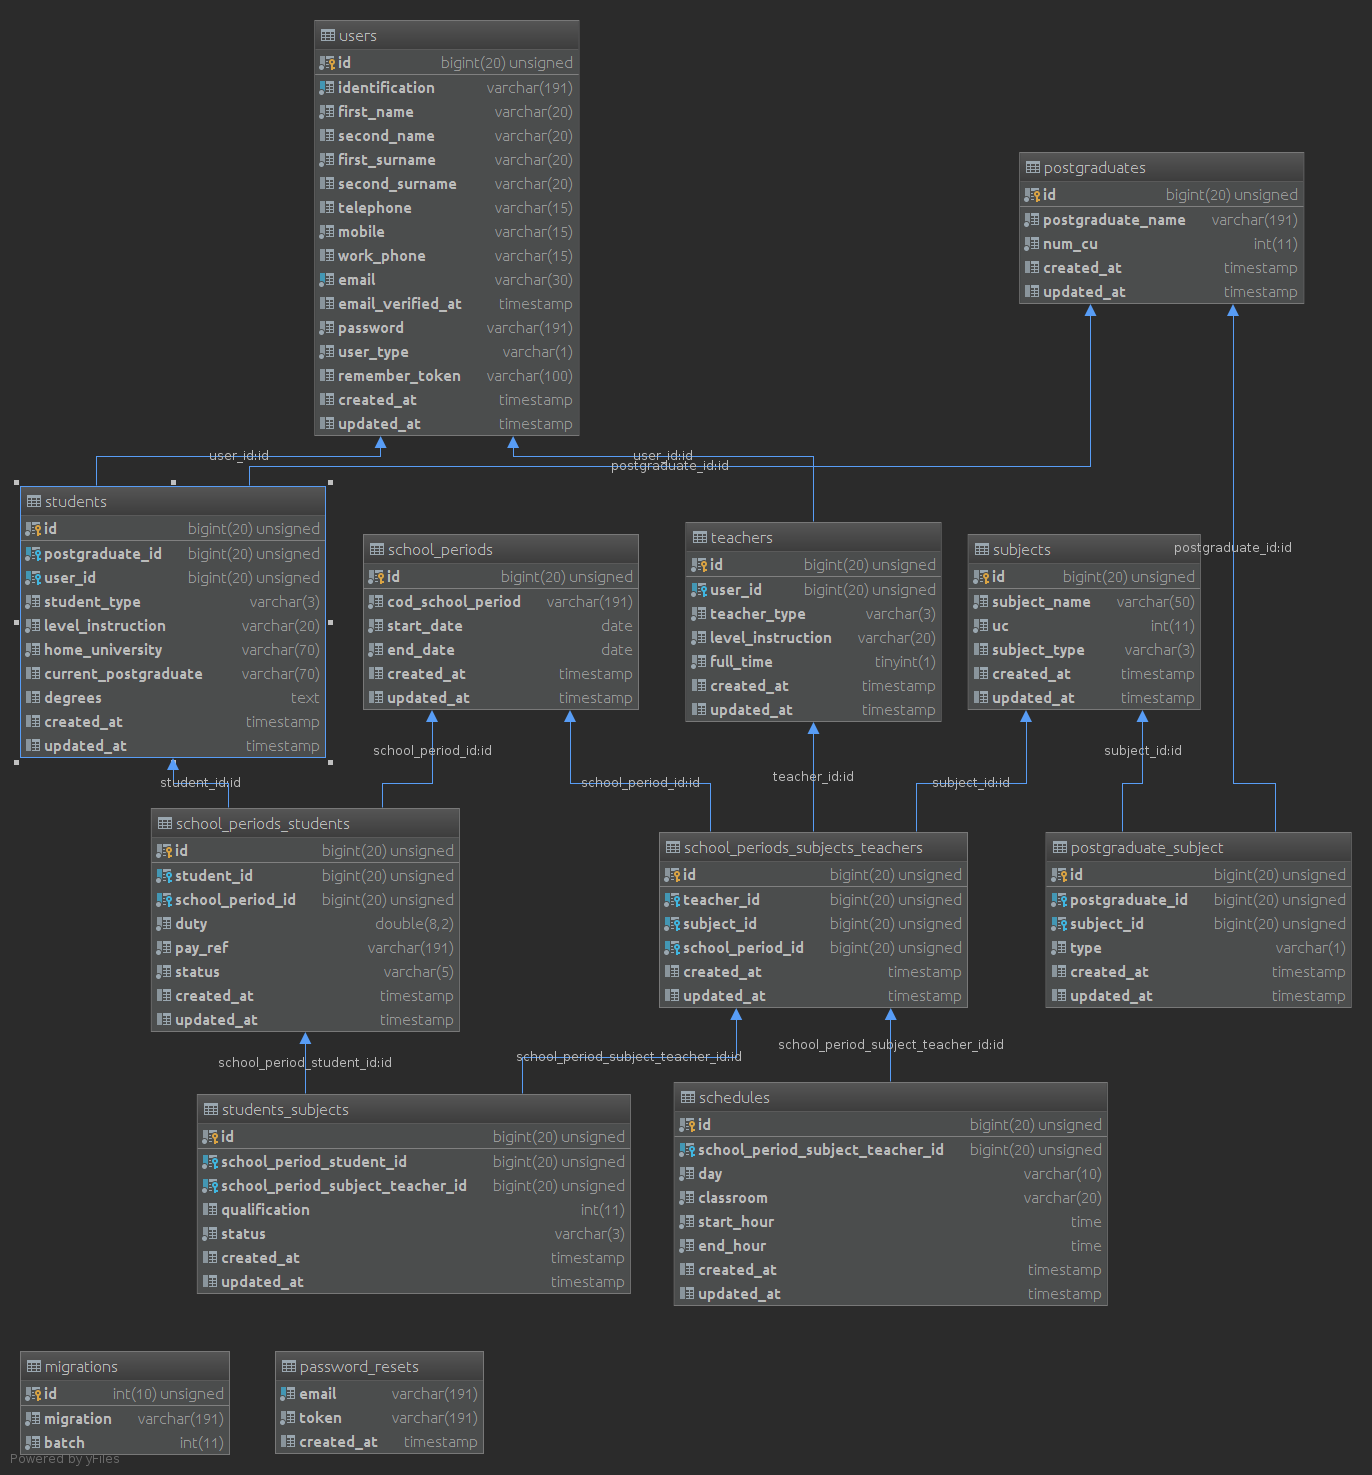
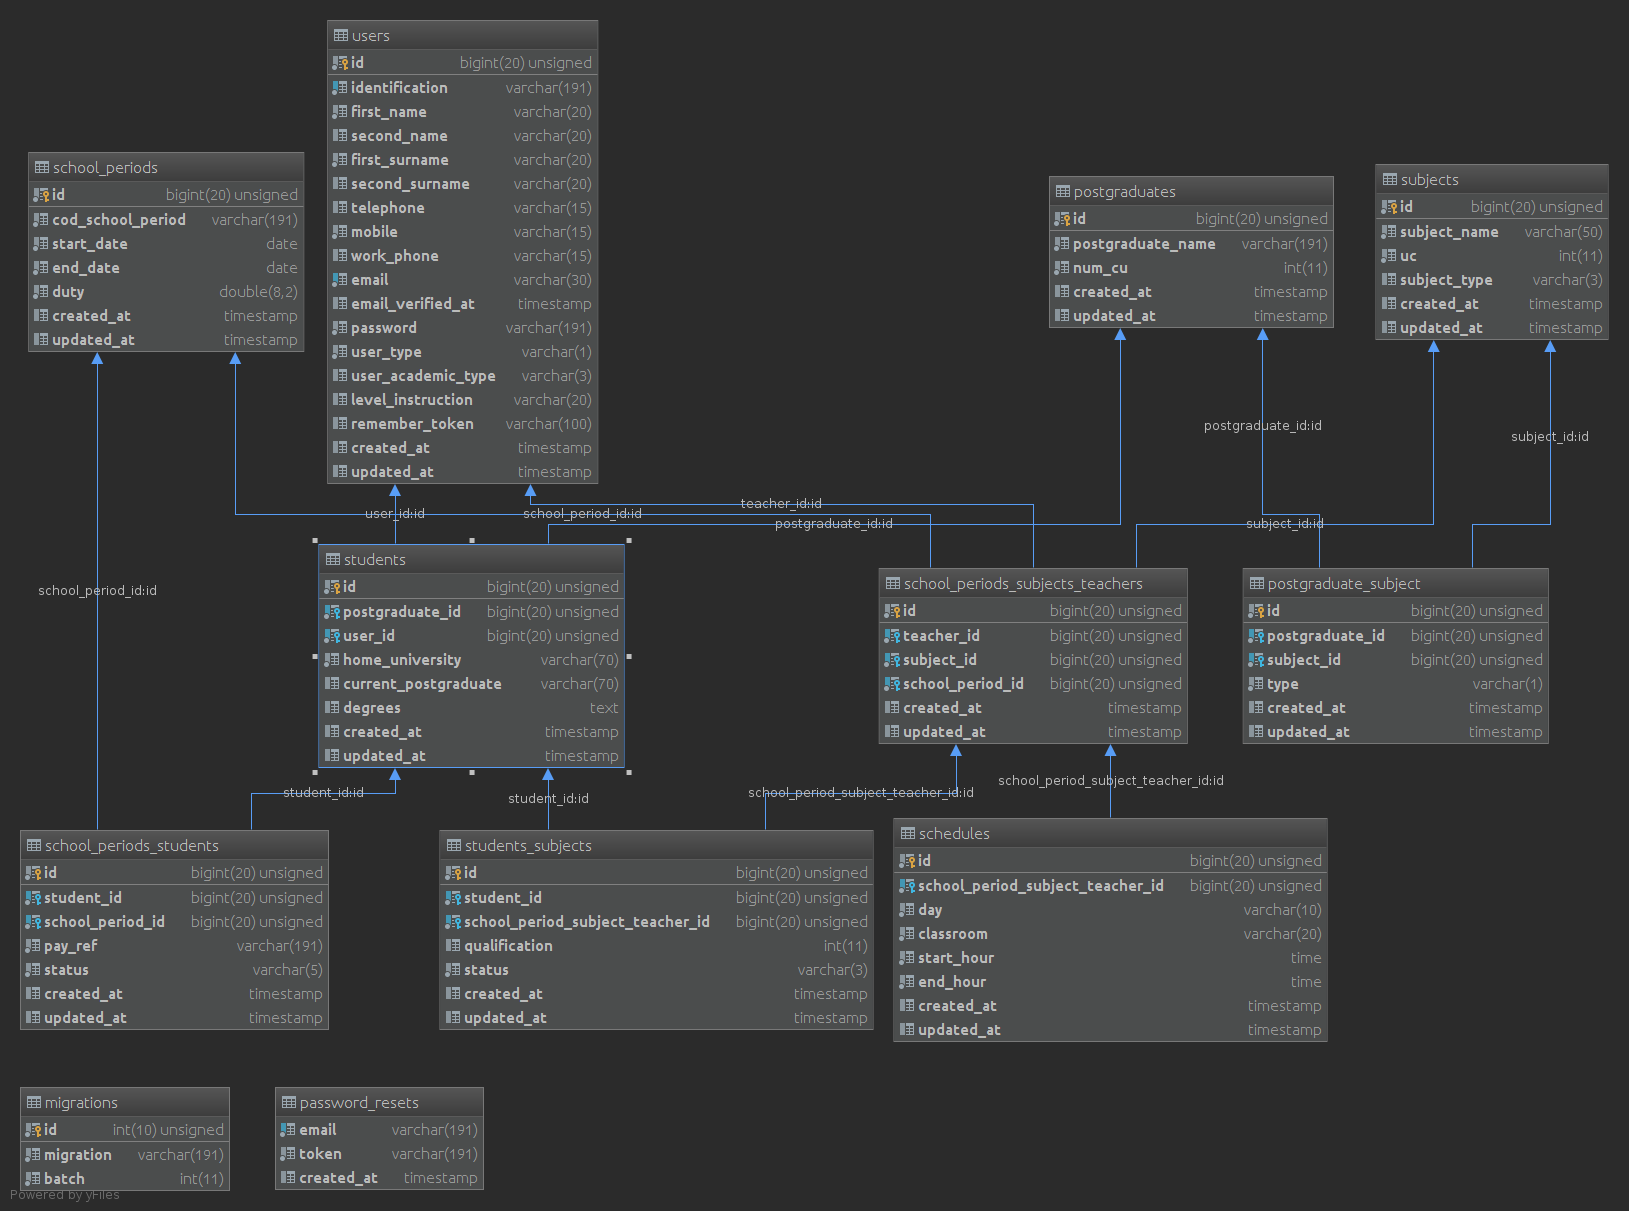
vuelta de teacher y postgradosa;adidos dos campos requeridos facultad y escuela

diff --git a/app/Http/Controllers/PostgraduateController.php b/app/Http/Controllers/PostgraduateController.php
@@ -36,8 +36,15 @@ class PostgraduateController extends Controller
      */
     public function store(Request $request)
     {
-        Postgraduate::create($request->all());
-        return response()->json(['message'=>'OK']);
+        $postgraduate = Postgraduate::where(['postgraduate_name'=>$request['postgraduate_name']])->get();
+        if (count($postgraduate)>0){
+            return response()->json(['message'=>'Postgrado ya registrado'],206);
+        }else{
+            Postgraduate::create($request->all());
+            $postgraduate = Postgraduate::where(['postgraduate_name'=>$request['postgraduate_name']])->get()[0];
+            return $postgraduate;
+        }
+
     }
 
     /**
@@ -49,7 +56,12 @@ class PostgraduateController extends Controller
     public function show($id)
     {
         $postgraduate = Postgraduate::find($id);
-        return $postgraduate;
+        if (count([$postgraduate])>0){
+            return $postgraduate;
+        } else{
+            return response()->json(['message'=>'Postgrado no encontrado'],206);
+        }
+
     }
 
     /**
@@ -72,9 +84,25 @@ class PostgraduateController extends Controller
      */
     public function update(Request $request, $id)
     {
-        //
-        Postgraduate::find($id)->update($request->all());
-        return response()->json(['message'=>'OK']);
+        $postgraduate = Postgraduate::find($id);
+        if (count([$postgraduate])>0){
+            $postgraduateName = Postgraduate::where(['postgraduate_name'=>$request['postgraduate_name']])->get();
+            if (count($postgraduateName)>0){
+                if ($postgraduateName[0][id]==$id){
+                    $postgraduate->update($request->all());
+                    $postgraduate = Postgraduate::find($id);
+                    return $postgraduate;
+                }else{
+                    return response()->json(['message'=>'nombre de Postgrado en uso'],206);
+                }
+            }else{
+                $postgraduate->update($request->all());
+                $postgraduate = Postgraduate::find($id);
+                return $postgraduate;
+            }
+        }else{
+            return response()->json(['message'=>'Postgrado no encontrado'],206);
+        }
     }
 
     /**
@@ -86,7 +114,12 @@ class PostgraduateController extends Controller
     public function destroy($id)
     {
         //
-        Postgraduate::find($id)->delete();
-        return response()->json(['message'=>'OK']);
+        $postgraduate = Postgraduate::find($id);
+        if (count([$postgraduate])>0){
+            $postgraduate->delete();
+            return response()->json(['message'=>'OK']);
+        }else{
+            return response()->json(['message'=>'Postgrado no encontrado'],206);
+        }
     }
 }

diff --git a/database/migrations/2019_09_07_204541_create_students_subjects_table.php b/database/migrations/2019_09_07_204541_create_students_subjects_table.php
@@ -15,12 +15,12 @@ class CreateStudentsSubjectsTable extends Migration
     {
         Schema::create('students_subjects', function (Blueprint $table) {
             $table->bigIncrements('id');
-            $table->unsignedBigInteger('school_period_student_id');
+            $table->unsignedBigInteger('student_id');
             $table->unsignedBigInteger('school_period_subject_teacher_id');
             $table->integer('qualification')->nullable();
             $table->string('status',3);
             $table->timestamps();
-            $table->foreign('school_period_student_id')->references('id')->on('school_periods_students')->onDelete('cascade');
+            $table->foreign('student_id')->references('id')->on('students')->onDelete('cascade');
             $table->foreign('school_period_subject_teacher_id')->references('id')->on('school_periods_subjects_teachers')->onDelete('cascade');
         });
     }

diff --git a/database/seeds/DatabaseSeeder.php b/database/seeds/DatabaseSeeder.php
@@ -15,7 +15,7 @@ class DatabaseSeeder extends Seeder
          Schema::disableForeignKeyConstraints();
          $this->call(UsersTableSeeder::class);
          //$this->call(AdministratorsTableSeeder::class);
-         $this->call(TeachersTableSeeder::class);
+         //$this->call(TeachersTableSeeder::class);
          $this->call(PostgraduatesTableSeeder::class);
          $this->call(StudentsTableSeeder::class);
         // $this->call(DegreesTableSeeder::class);

diff --git a/database/migrations/2019_08_04_201314_create_postgraduates_table.php b/database/migrations/2019_08_04_201314_create_postgraduates_table.php
@@ -15,8 +15,10 @@ class CreatePostgraduatesTable extends Migration
     {
         Schema::create('postgraduates', function (Blueprint $table) {
             $table->bigIncrements('id');
-            $table->string('postgraduate_name');
+            $table->string('postgraduate_name')->unique();
             $table->integer('num_cu');
+            $table->string('faculty');
+            $table->string('school');
             $table->timestamps();
         });
     }

diff --git a/database/migrations/2019_08_06_185718_create_students_table.php b/database/migrations/2019_08_06_185718_create_students_table.php
@@ -18,7 +18,6 @@ class CreateStudentsTable extends Migration
             $table->unsignedBigInteger('postgraduate_id');
             $table->unsignedBigInteger('user_id');
             $table->string('student_type',3);
-            $table->string('level_instruction',20);
             $table->string('home_university',70);
             $table->string('current_postgraduate',70)->nullable();
             $table->text('degrees')->nullable();

diff --git a/database/migrations/2019_08_07_205910_create_school_periods_students_table.php b/database/migrations/2019_08_07_205910_create_school_periods_students_table.php
@@ -17,7 +17,6 @@ class CreateSchoolPeriodsStudentsTable extends Migration
             $table->bigIncrements('id');
             $table->unsignedBigInteger('student_id');
             $table->unsignedBigInteger('school_period_id');
-            $table->float('duty');
             $table->string('pay_ref');
             $table->string('status',5);
             $table->timestamps();

diff --git a/app/Postgraduate.php b/app/Postgraduate.php
@@ -7,7 +7,7 @@ use Illuminate\Database\Eloquent\Model;
 class Postgraduate extends Model
 {
     //
-    protected $fillable = ['postgraduate_name','num_cu'];
+    protected $fillable = ['postgraduate_name','num_cu','faculty','school'];
 
     public function  subjects(){
         return $this->belongsToMany('App\Subject','postgraduate_subject')->withPivot('subject_id','type');

diff --git a/database/migrations/2014_10_12_000000_create_users_table.php b/database/migrations/2014_10_12_000000_create_users_table.php
@@ -27,6 +27,7 @@ class CreateUsersTable extends Migration
             $table->timestamp('email_verified_at')->nullable();
             $table->string('password');
             $table->string('user_type',1);
+            $table->string('level_instruction',20)->nullable();
             $table->rememberToken();
             $table->timestamps();
         });

diff --git a/database/seeds/StudentsSubjectsTableSeeder.php b/database/seeds/StudentsSubjectsTableSeeder.php
@@ -14,7 +14,7 @@ class StudentsSubjectsTableSeeder extends Seeder
     {
         StudentSubject::query()->truncate();
         StudentSubject::create([
-            'school_period_student_id'=>1,
+            'student_id'=>1,
             'school_period_subject_teacher_id'=>1,
             'qualification'=>0,
             'status'=>'CUR' //CUR RET APR REP

diff --git a/database/seeds/SchoolPeriodsStudentsTableSeeder.php b/database/seeds/SchoolPeriodsStudentsTableSeeder.php
@@ -16,7 +16,6 @@ class SchoolPeriodsStudentsTableSeeder extends Seeder
         SchoolPeriodStudent::create([
             'student_id'=>1,
             'school_period_id'=>1,
-            'duty'=>10,
             'pay_ref'=>'referencia de pago',
             'status'=>'INC-A', //RET-A RET-B DES-A DES-B INC-A INC-B REI-A REI-B REG
         ]);

diff --git a/database/seeds/StudentsTableSeeder.php b/database/seeds/StudentsTableSeeder.php
@@ -17,7 +17,6 @@ class StudentsTableSeeder extends Seeder
             'postgraduate_id'=>1,
             'user_id'=>3,
             'student_type'=>"REG", // REG EXT AMP
-            'level_instruction'=>'Licenciado',
             'home_university'=>'Universidad Central de Venezuela',
         ]);
     }

diff --git a/database/migrations/2019_08_07_191347_create_school_periods_table.php b/database/migrations/2019_08_07_191347_create_school_periods_table.php
@@ -18,6 +18,7 @@ class CreateSchoolPeriodsTable extends Migration
             $table->string('cod_school_period');
             $table->date('start_date');
             $table->date('end_date');
+            $table->float('duty');
             $table->timestamps();
         });
     }
